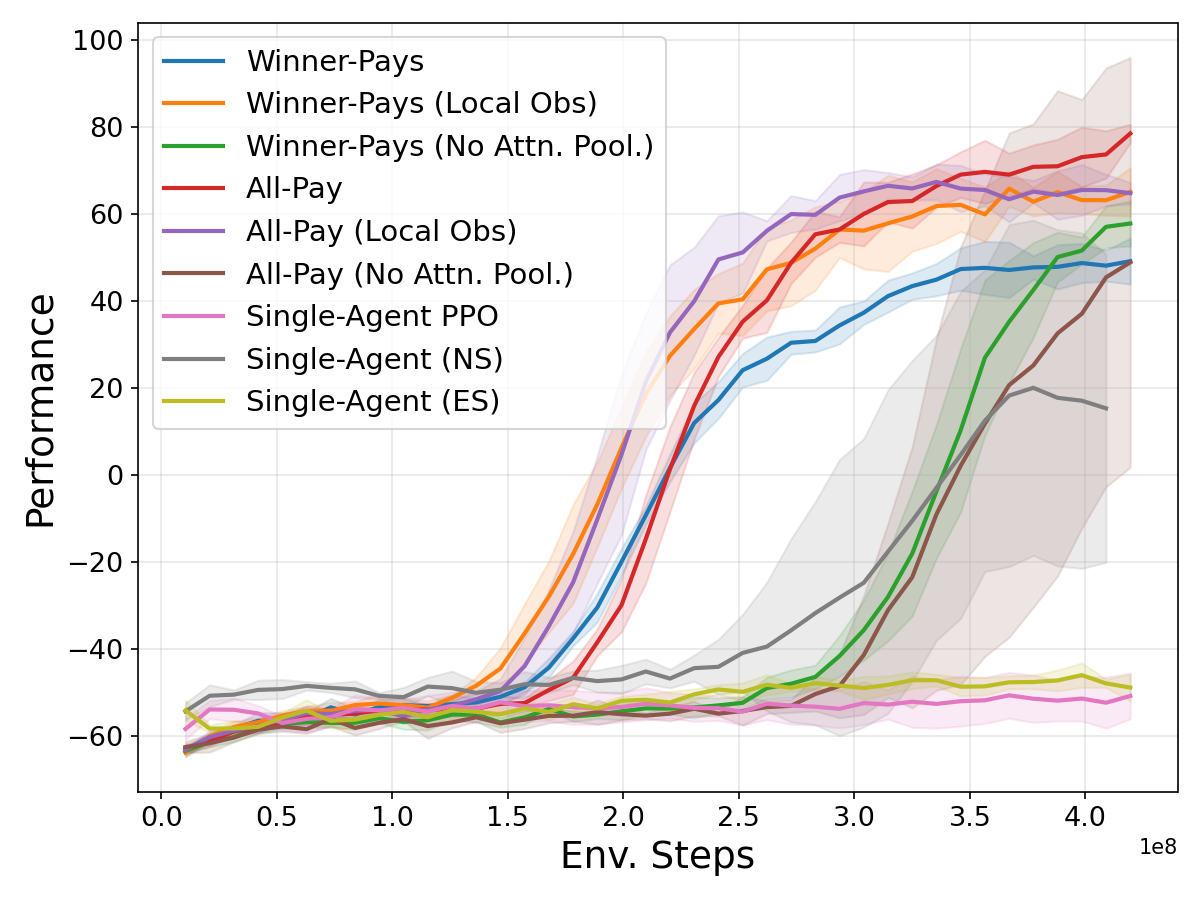
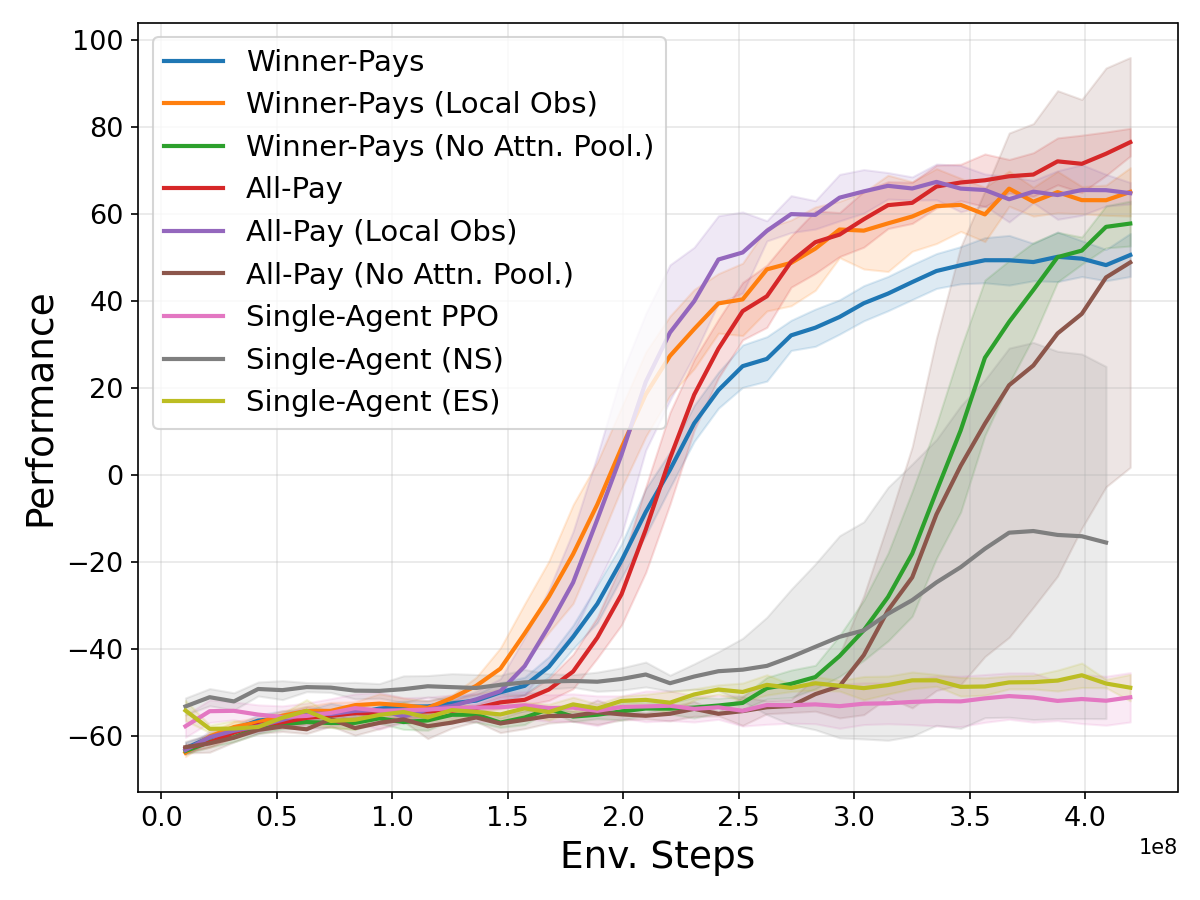
tables update

diff --git a/02_Neurips26/tables/performance_table.tex b/02_Neurips26/tables/performance_table.tex
@@ -1,23 +1,23 @@
 \begin{table}
-  \caption{Performance (mean and standard deviation across 5 seeds) at the best evaluation iteration. Cat Feeder values measure performance as the difference between number of feeding requests completed and those that expired. Atari Assault values are the game score.}
+  \caption{Performance (mean and standard deviation across available seeds) averaged over each seed's last 5 available evaluation iterations. Cat Feeder values measure performance as the difference between number of feeding requests completed and those that expired. Atari Assault values are the game score.}
   \label{tab:all_methods_comp}
   \centering
   \begin{tabular}{lll}
     \toprule
     {\bf Method} & {\bf Cat Feeder} & {\bf Atari Assault} \\
     \midrule
-    Winner-Pays & $51.17$ {\small\textcolor{gray}{$(4.49)$}} & $\textbf{663.92}$ {\small\textcolor{gray}{$(23.73)$}} \\
-    \textcolor{gray}{\itshape\hspace{1em}w. Local Obs} & \textcolor{gray}{\itshape $67.21$ {\small$(5.75)$}} & \textcolor{gray}{\itshape $644.00$ {\small$(28.31)$}} \\
-    \textcolor{gray}{\itshape\hspace{1em}w. No Attn. Pool.} & \textcolor{gray}{\itshape $58.41$ {\small$(5.09)$}} & \textcolor{gray}{\itshape ---} \\
-    All-Pay & $\textbf{79.46}$ {\small\textcolor{gray}{$(3.68)$}} & $\textbf{668.48}$ {\small\textcolor{gray}{$(21.34)$}} \\
-    \textcolor{gray}{\itshape\hspace{1em}w. Local Obs} & \textcolor{gray}{\itshape $69.73$ {\small$(3.57)$}} & \textcolor{gray}{\itshape $648.72$ {\small$(53.85)$}} \\
-    \textcolor{gray}{\itshape\hspace{1em}w. No Attn. Pool.} & \textcolor{gray}{\itshape $48.78$ {\small$(47.10)$}} & \textcolor{gray}{\itshape ---} \\
+    Winner-Pays & $49.44$ {\small\textcolor{gray}{$(4.19)$}} & $556.05$ {\small\textcolor{gray}{$(29.23)$}} \\
+    \textcolor{gray}{\itshape\hspace{1em}w. Local Obs} & \textcolor{gray}{\itshape $63.76$ {\small$(3.85)$}} & \textcolor{gray}{\itshape $557.55$ {\small$(36.92)$}} \\
+    \textcolor{gray}{\itshape\hspace{1em}w. No Attn. Pool.} & \textcolor{gray}{\itshape $51.72$ {\small$(3.97)$}} & \textcolor{gray}{\itshape ---} \\
+    All-Pay & $\textbf{72.52}$ {\small\textcolor{gray}{$(4.23)$}} & $\textbf{576.64}$ {\small\textcolor{gray}{$(43.19)$}} \\
+    \textcolor{gray}{\itshape\hspace{1em}w. Local Obs} & \textcolor{gray}{\itshape $64.96$ {\small$(3.82)$}} & \textcolor{gray}{\itshape $564.36$ {\small$(20.68)$}} \\
+    \textcolor{gray}{\itshape\hspace{1em}w. No Attn. Pool.} & \textcolor{gray}{\itshape $37.72$ {\small$(50.32)$}} & \textcolor{gray}{\itshape ---} \\
     \midrule
-    DWN & $-2.28$ {\small\textcolor{gray}{$(2.22)$}} & $310.80$ {\small\textcolor{gray}{$(159.54)$}} \\
-    Single-Policy PPO & & $\textbf{430.08}$ {\small\textcolor{gray}{$(16.43)$}} \\
-    \textcolor{gray}{\itshape\hspace{1em}w. No Reward Shaping} & \textcolor{gray}{\itshape $-48.75$ {\small$(4.30)$}} & \textcolor{gray}{\itshape ---} \\
-    \textcolor{gray}{\itshape\hspace{1em}w. Nearest Shaping} & $\textbf{22.17}$ {\small\textcolor{gray}{$(36.34)$}} & \textcolor{gray}{\itshape ---} \\
-    \textcolor{gray}{\itshape\hspace{1em}w. Expiry Shaping} & \textcolor{gray}{\itshape $-44.34$ {\small$(1.38)$}} & \textcolor{gray}{\itshape ---} \\
+    DWN & $-10.27$ {\small\textcolor{gray}{$(2.38)$}} & $310.80$ {\small\textcolor{gray}{$(159.54)$}} \\
+    Single-Policy PPO & $-51.59$ {\small\textcolor{gray}{$(5.33)$}} & $\textbf{358.60}$ {\small\textcolor{gray}{$(25.99)$}} \\
+    \textcolor{gray}{\itshape\hspace{1em}w. No Reward Shaping} & \textcolor{gray}{\itshape ---} & \textcolor{gray}{\itshape ---} \\
+    \textcolor{gray}{\itshape\hspace{1em}w. Nearest Shaping} & \textcolor{gray}{\itshape $-14.15$ {\small$(41.88)$}} & \textcolor{gray}{\itshape ---} \\
+    \textcolor{gray}{\itshape\hspace{1em}w. Expiry Shaping} & \textcolor{gray}{\itshape $-47.62$ {\small$(1.52)$}} & \textcolor{gray}{\itshape ---} \\
     \bottomrule
   \end{tabular}
 \end{table}

diff --git a/02_Neurips26/tables/gridworld_results_table.tex b/02_Neurips26/tables/gridworld_results_table.tex
@@ -1,23 +1,21 @@
 \begin{table}
   \centering
-  \caption{Gridworld performance (mean $\pm$ std across 5 seeds) at the best evaluation iteration. Values are $8 \times \text{avg performance}$ for bidding/single-agent methods, and $8 \times \text{targets reached} - \text{expired}$ for DWN.}
+  \caption{Gridworld performance (mean $\pm$ std across available seeds) averaged over each seed's last 5 available evaluation iterations. Values are $8 \times \text{avg performance}$ for bidding/single-agent methods, and $8 \times \text{targets reached} - \text{expired}$ for DWN.}
   \begin{tabular}{ll}
-    \toprule
-    {\bf Method} & {\bf Performance} \\
-    \midrule
-    \poorman & $51.17$ {\small\textcolor{gray}{$(4.49)$}} \\
-    \textcolor{gray}{\itshape\hspace{1em}w. Local Obs} & \textcolor{gray}{\itshape $67.21$ {\small$(5.75)$}} \\
-    \textcolor{gray}{\itshape\hspace{1em}w. No Attn. Pool.} & \textcolor{gray}{\itshape $58.41$ {\small$(5.09)$}} \\
-    \allpay & $\textbf{79.46}$ {\small\textcolor{gray}{$(3.68)$}} \\
-    \textcolor{gray}{\itshape\hspace{1em}w. Local Obs} & \textcolor{gray}{\itshape $69.73$ {\small$(3.57)$}} \\
-    \textcolor{gray}{\itshape\hspace{1em}w. No Attn. Pool.} & \textcolor{gray}{\itshape $48.78$ {\small$(47.10)$}} \\
-    \midrule
-    DWN & $-2.28$ {\small\textcolor{gray}{$(2.22)$}} \\
-    Single-Agent PPO & \\
-    \textcolor{gray}{\itshape\hspace{1em}w. No Reward Shaping} & \textcolor{gray}{\itshape $-48.75$ {\small$(4.30)$}} \\
-    \textcolor{gray}{\itshape\hspace{1em}w. Nearest Shaping} & $\textbf{22.17}$ {\small\textcolor{gray}{$(36.34)$}} \\
-    \textcolor{gray}{\itshape\hspace{1em}w. Expiry Shaping} & \textcolor{gray}{\itshape $-44.34$ {\small$(1.38)$}} \\
-    \bottomrule
+    \hline
+    {\bf Algorithm} & {\bf Performance} \\
+    \hline
+    Winner-Pays & $49.44$ {\small\textcolor{gray}{$(\pm 4.19)$}} \\
+    Winner-Pays (Local Obs) & $63.76$ {\small\textcolor{gray}{$(\pm 3.85)$}} \\
+    Winner-Pays (No Attn. Pool.) & $51.72$ {\small\textcolor{gray}{$(\pm 3.97)$}} \\
+    All-Pay & $72.52$ {\small\textcolor{gray}{$(\pm 4.23)$}} \\
+    All-Pay (Local Obs) & $64.96$ {\small\textcolor{gray}{$(\pm 3.82)$}} \\
+    All-Pay (No Attn. Pool.) & $37.72$ {\small\textcolor{gray}{$(\pm 50.32)$}} \\
+    DWN & $-10.27$ {\small\textcolor{gray}{$(\pm 2.38)$}} \\
+    Single-Agent PPO & $-51.59$ {\small\textcolor{gray}{$(\pm 5.33)$}} \\
+    Single-Agent (NS) & $-14.15$ {\small\textcolor{gray}{$(\pm 41.88)$}} \\
+    Single-Agent (ES) & $-47.62$ {\small\textcolor{gray}{$(\pm 1.52)$}} \\
+    \hline
   \end{tabular}
   \label{tab:gridworld_methods}
 \end{table}

diff --git a/02_Neurips26/tables/assault_results_table.tex b/02_Neurips26/tables/assault_results_table.tex
@@ -1,18 +1,17 @@
 \begin{table}
   \centering
-  \caption{Assault score (mean $\pm$ std across 5 seeds) at the best evaluation iteration.}
+  \caption{Assault score (mean $\pm$ std across available seeds) averaged over each seed's last 5 evaluation iterations.}
   \begin{tabular}{ll}
-    \toprule
-    {\bf Method} & {\bf Score} \\
-    \midrule
-    \poorman & $\textbf{663.92}$ {\small\textcolor{gray}{$(23.73)$}} \\
-    \textcolor{gray}{\itshape\hspace{1em}w. Local Obs} & \textcolor{gray}{\itshape $644.00$ {\small$(28.31)$}} \\
-    \allpay & $\textbf{668.48}$ {\small\textcolor{gray}{$(21.34)$}} \\
-    \textcolor{gray}{\itshape\hspace{1em}w. Local Obs} & \textcolor{gray}{\itshape $648.72$ {\small$(53.85)$}} \\
-    \midrule
-    DWN & $310.80$ {\small\textcolor{gray}{$(159.54)$}} \\
-    Single-Agent PPO & $\textbf{430.08}$ {\small\textcolor{gray}{$(16.43)$}} \\
-    \bottomrule
+    \hline
+    {\bf Algorithm} & {\bf Score} \\
+    \hline
+    Winner-Pays & $556.05$ {\small\textcolor{gray}{$(\pm 29.23)$}} \\
+    Winner-Pays (Local Obs) & $557.55$ {\small\textcolor{gray}{$(\pm 36.92)$}} \\
+    All-Pay & $576.64$ {\small\textcolor{gray}{$(\pm 43.19)$}} \\
+    All-Pay (Local Obs) & $564.36$ {\small\textcolor{gray}{$(\pm 20.68)$}} \\
+    DWN & $310.80$ {\small\textcolor{gray}{$(\pm 159.54)$}} \\
+    Single-Agent PPO & $358.60$ {\small\textcolor{gray}{$(\pm 25.99)$}} \\
+    \hline
   \end{tabular}
   \label{tab:assault_methods}
 \end{table}

diff --git a/02_Neurips26/hyperparameters.tex b/02_Neurips26/hyperparameters.tex
@@ -113,13 +113,13 @@ Critic hidden layers & $[256, 256, 256, 256]$ \\
 Parameter & Value \\
 \midrule
 \multicolumn{2}{l}{\textit{Training}} \\
-Total timesteps & $5 \times 10^{7}$ \\
+Total timesteps & $5 \times 10^{8}$ \\
 Parallel environments & 256 \\
 Discount $\gamma$ & 0.99 \\
 Replay buffer size & $1 \times 10^{6}$ \\
 Batch size & 256 \\
 Learning starts & $1 \times 10^{5}$ \\
-Train frequency & 2560 \\
+Train frequency & 256 \\
 W-network train delay & $1 \times 10^{6}$ \\
 Target network update frequency & 1000 \\
 Target network $\tau$ & 1.0 \\
